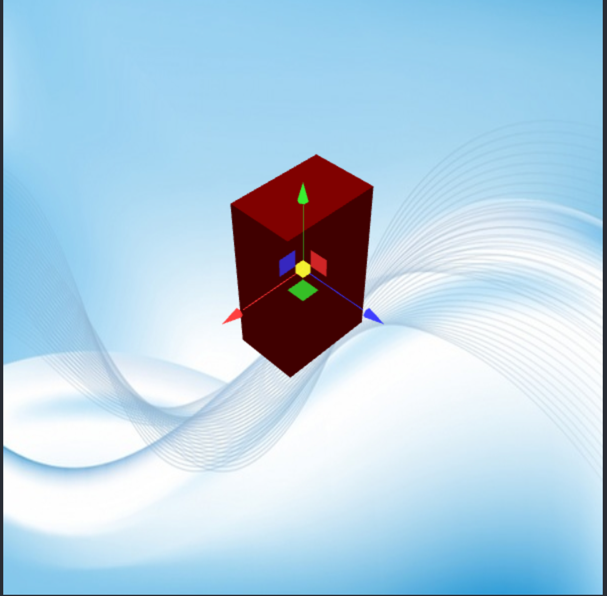
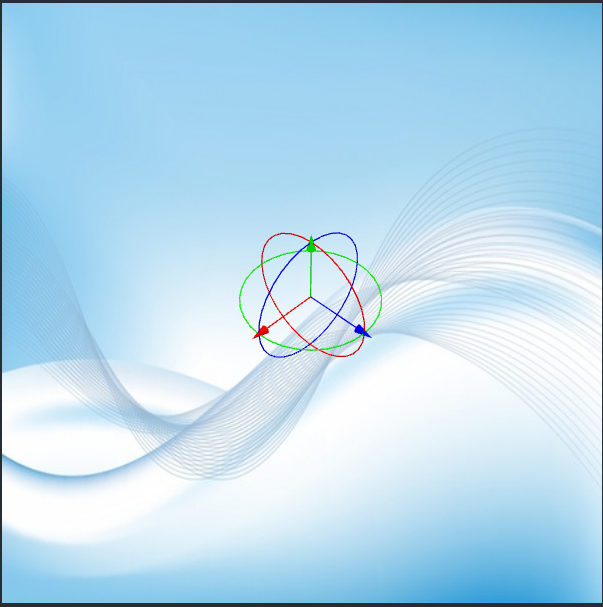
feat: add rotation gizmo

diff --git a/src/utils.ts b/src/utils.ts
@@ -1,7 +1,6 @@
 // @ts-nocheck
 import * as BABYLON from 'babylonjs';
-import { Mesh } from 'babylonjs';
-import { blurPixelShader } from 'babylonjs/Shaders/blur.fragment';
+import { Mesh, RotationGizmo } from 'babylonjs';
 import { EditControl } from './control';
 import im from './mBBxGJH.jpeg';
 
@@ -30,50 +29,15 @@ export const main = function () {
   mat.alpha = 0;
   // Create utility layer the gizmo will be rendered on
   var utilLayer = new BABYLON.UtilityLayerRenderer(scene);
-
-  // Create the gizmo and attach to the sphere
-  var gizmo = new BABYLON.PositionGizmo(utilLayer);
-  gizmo.attachedMesh = box;
-  var dragobserver = new BABYLON.PointerDragBehavior();
-  dragobserver.onDragObservable.add((event) => {
-    console.log('drag');
-    console.log(event);
-  });
-
-  // Keep the gizmo fixed to world rotation
-  gizmo.updateGizmoRotationToMatchAttachedMesh = true;
-  gizmo.updateGizmoPositionToMatchAttachedMesh = true;
-  gizmo.onDragStartObservable.add((...args: any[]) => {
-    console.log('onDragStartObservable', args);
-    console.log(
-      'onDragStartObservable',
-      gizmo.xGizmo.dragBehavior.lastDragPosition,
-      gizmo.yGizmo.dragBehavior.lastDragPosition,
-      gizmo.zGizmo.dragBehavior.lastDragPosition
-    );
-  });
-  gizmo.onDragEndObservable.add((...args: any[]) => {
-    console.log('onDragEndObservable', args);
-    console.log(
-      'onDragStartObservable',
-      gizmo.xGizmo.dragBehavior.lastDragPosition,
-      gizmo.yGizmo.dragBehavior.lastDragPosition,
-      gizmo.zGizmo.dragBehavior.lastDragPosition
-    );
-  });
-
-  gizmo.xGizmo.dragBehavior.onDragObservable.add((...args: any[]) => {
-    console.log('X: gizmo.xGizmo.dragBehavior.onDragObservable', args);
-  });
-
-  gizmo.zGizmo.dragBehavior.onDragObservable.add((...args: any[]) => {
-    console.log('Z: gizmo.zGizmo.dragBehavior.onDragObservable', args);
-  });
-
-  gizmo.yGizmo.dragBehavior.onDragObservable.add((...args: any[]) => {
-    console.log('Y: gizmo.yGizmo.dragBehavior.onDragObservable', args);
-  });
-
+  
+  var gizmoManager = new BABYLON.GizmoManager(scene);
+  gizmoManager.positionGizmoEnabled = true;
+  gizmoManager.rotationGizmoEnabled = true;
+  gizmoManager.scaleGizmoEnabled = false;
+  gizmoManager.boundingBoxGizmoEnabled = false;
+  // gizmoManager.attachableMeshes = [box];
+  gizmoManager.usePointerToAttachGizmos = false;
+  gizmoManager.attachToMesh(box);
   engine.runRenderLoop(function () {
     scene.render();
   });

diff --git a/README.md b/README.md
@@ -1,6 +1,6 @@
+# Gizmo
+
 ![H](./screenshot/img.png)
 
 - [ ] 剥离坐标计算逻辑
 - [ ] 剥离渲染逻辑
-
-项目中拷贝的是 [BabylonJS-EditControl](https://github.com/ssatguru/BabylonJS-EditControl) 代码，方便逻辑抽离
